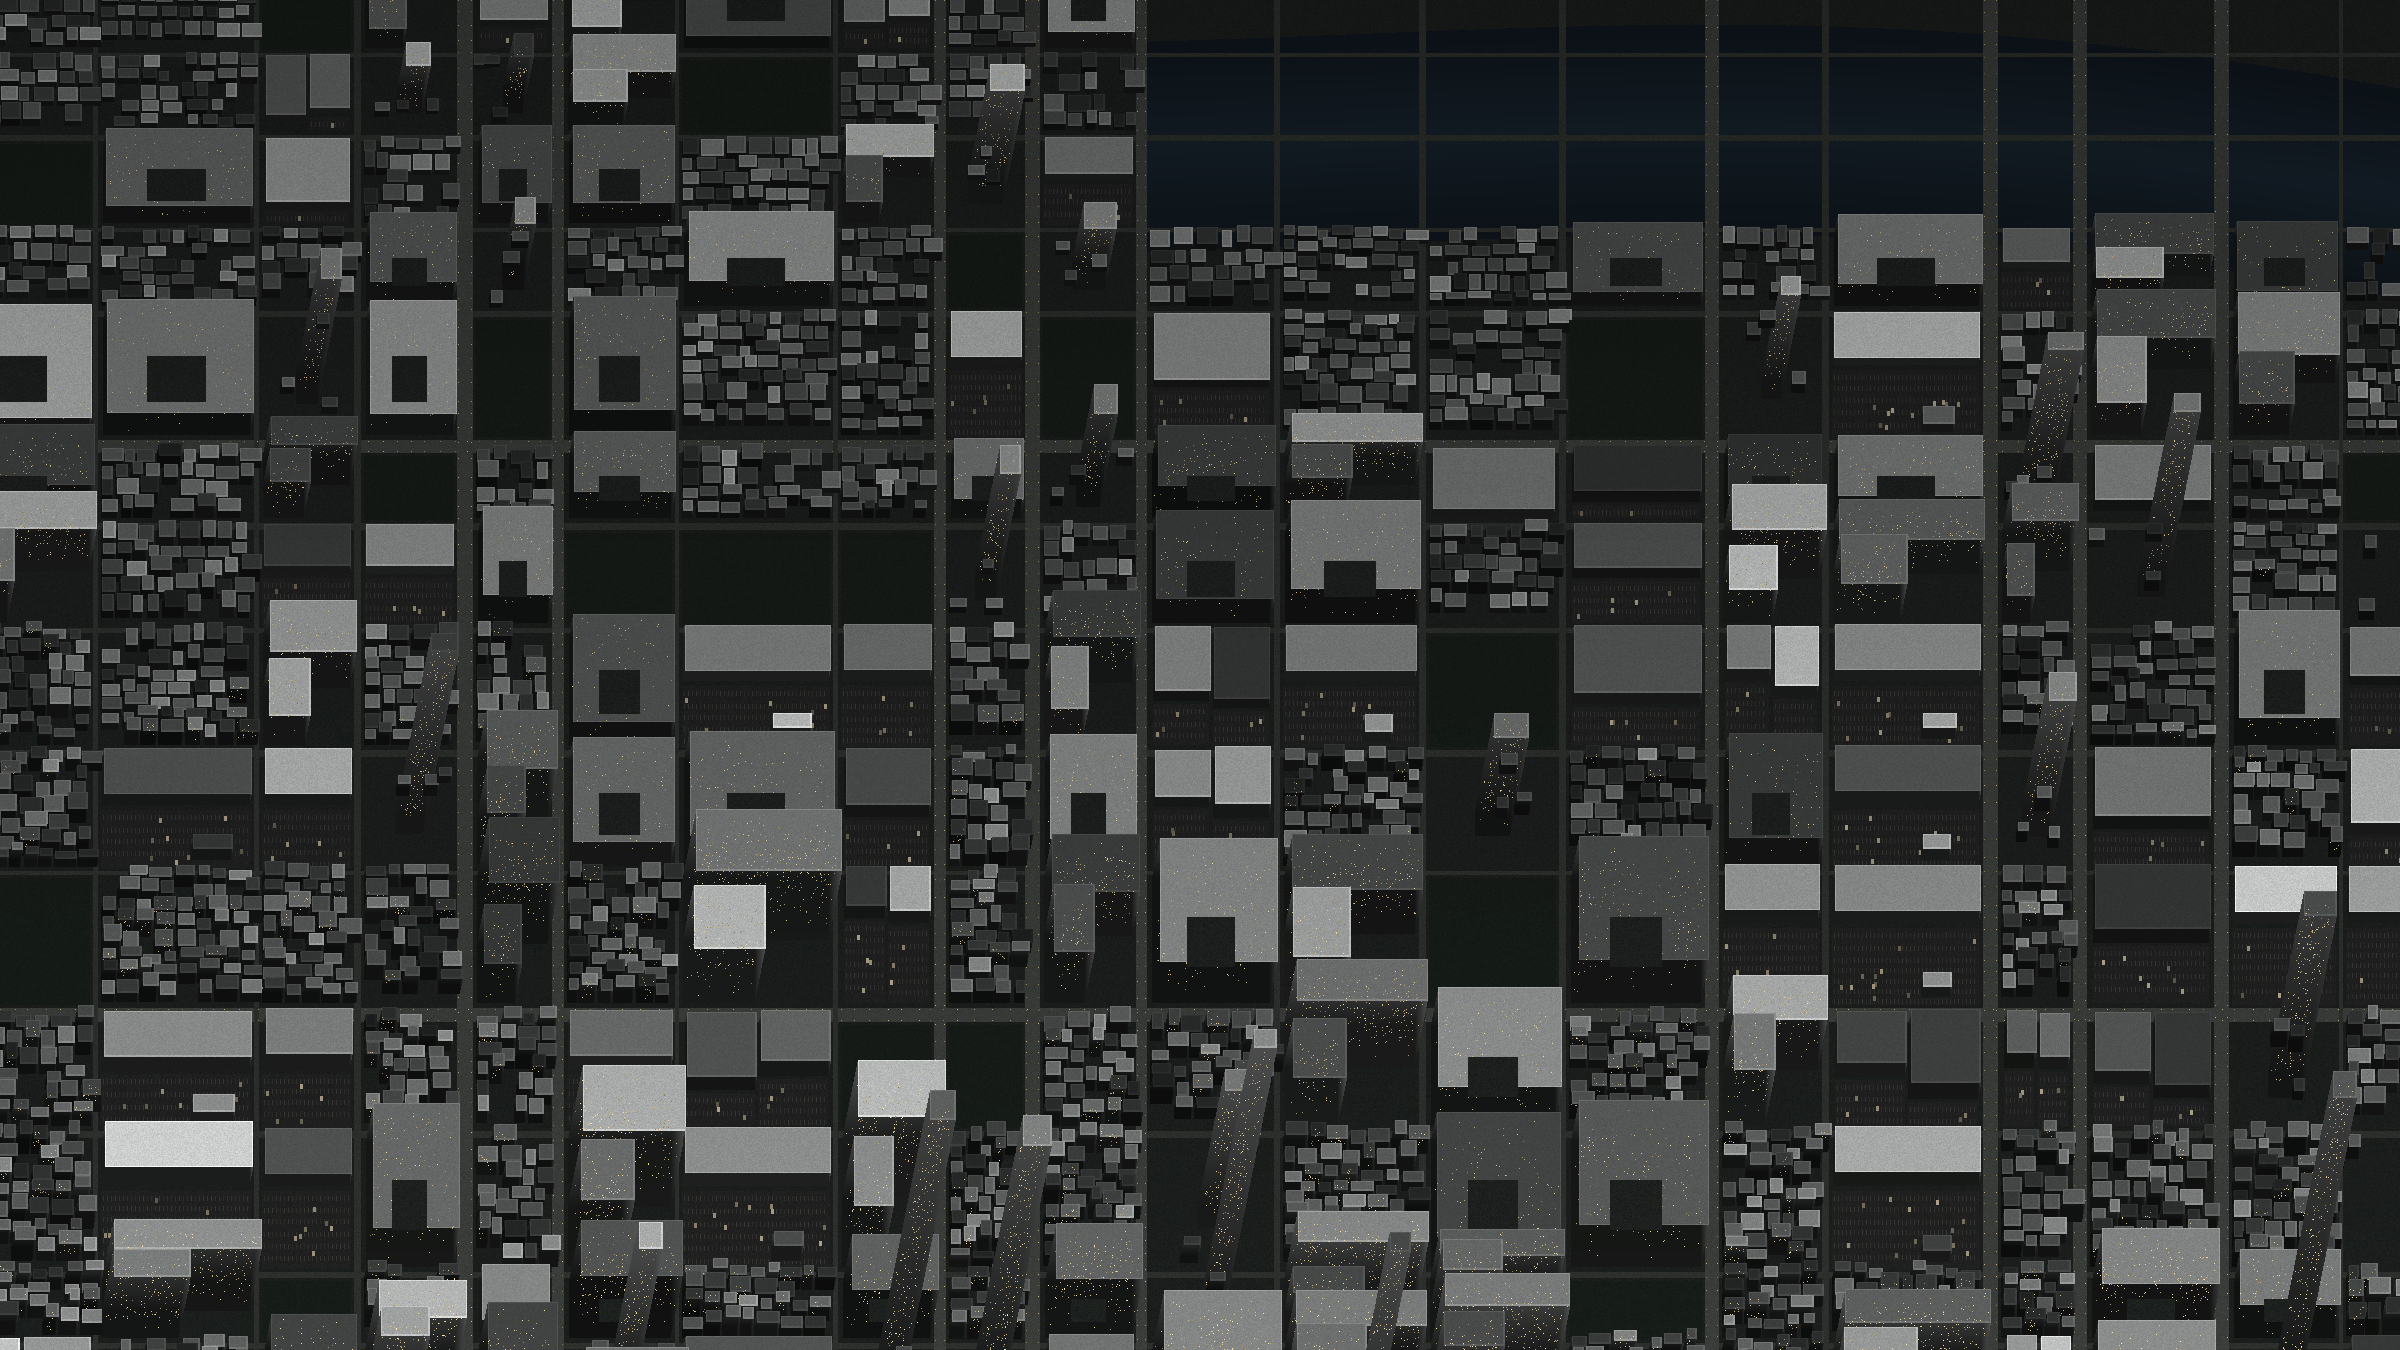
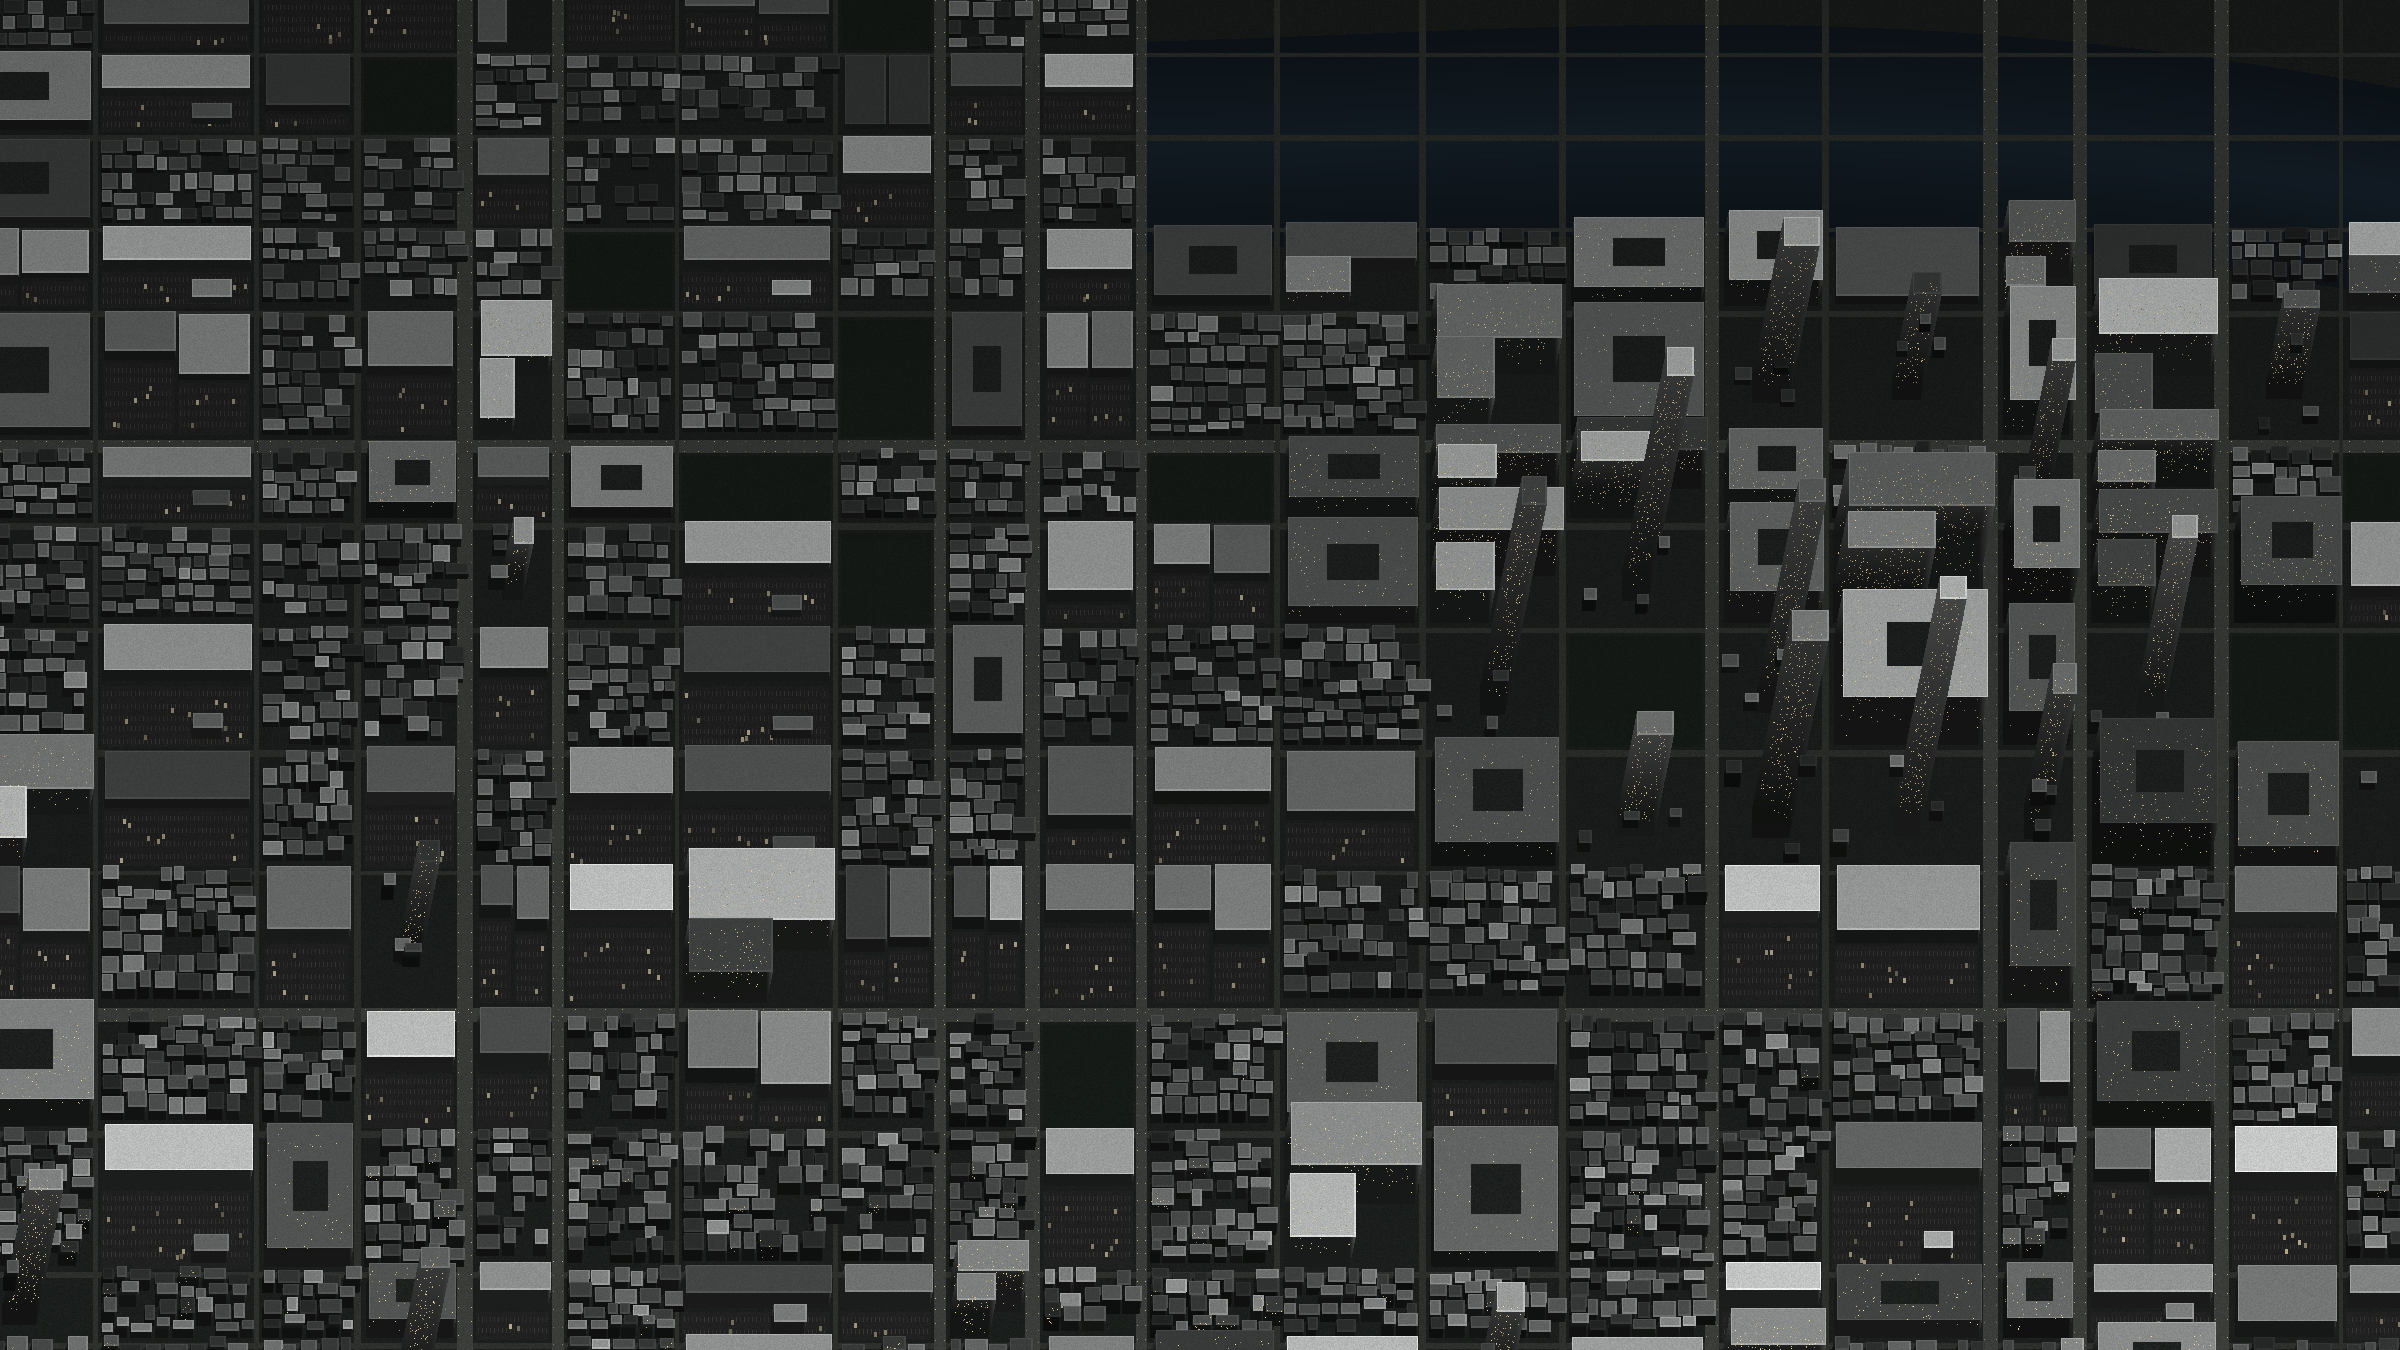
Give the aerial a downtown, and open Meet Vera on the intro everywhere
THE CITY HAS A CORE NOW. Towers scattered evenly across the frame read as
texture; towers clustered with the skyline falling away around them read
as a place. Height and asset class both follow distance from a core: the
middle is towers and offices, the edges are sheds, plazas and low fabric.
Measured, the mean vertical building run is 19.1px downtown against
9.9px at the outskirts, with fewer and larger masses in the core.

THE COURTYARD BUG. Midrise courtyards were punched at the FOOTPRINT while
the roof sits a long way up the frame under the low camera, so the dark
square cut through the middle of the roof and out the bottom of it. That
is why one highlight looked like it was floating off its building: it was
outlining a roof with a hole in it. Courtyards now sit on the roof, and
seven of the eight highlights verify clean on all four edges. The eighth
is the L-shaped office, where the outline covers the main wing and the
second wing continues below it, which is the shape rather than a
misalignment.

MOBILE OPENS ON THE INTRO TOO. It used to jump straight to records and a
green conclusion, dropping a phone visitor into the middle of a
demonstration with no idea what it demonstrates. Still no walk through
three modes on a phone; just the sentence, then the whole story.

Also: the aerial band on phones is 400px rather than 250px and its crop
anchors right instead of centre. Anchoring centre at that height would
[…]

diff --git a/src/components/hero/HeroAerial.tsx b/src/components/hero/HeroAerial.tsx
@@ -1,7 +1,6 @@
 import Image from "next/image";
 import {
   HERO_AERIAL_H,
-  HERO_AERIAL_POSITION,
   HERO_AERIAL_SRC,
   HERO_AERIAL_W,
   HERO_HIGHLIGHTS,
@@ -34,7 +33,7 @@ export function HeroAerial() {
       aria-hidden
       className={[
         // mobile: a shallow band under the copy, full-bleed
-        "relative mt-12 h-[250px] w-full sm:h-[300px] md:h-[340px]",
+        "relative mt-12 h-[400px] w-full sm:h-[460px] md:h-[520px]",
         "[container-type:size]",
         // desktop: the whole section, behind everything
         "lg:absolute lg:inset-0 lg:z-0 lg:mt-0 lg:h-auto",
@@ -52,8 +51,16 @@ export function HeroAerial() {
              the browser pick the width it needs */
           sizes="100vw"
           quality={82}
-          className="object-cover"
-          style={{ objectPosition: HERO_AERIAL_POSITION }}
+          /* ALIGNMENT IS SHARED WITH CoverBox BELOW. Change one and you must
+             change the other, or every outline slides off its building.
+
+             Desktop centres: the layer is wider than the image's aspect, so
+             cover scales by width and nothing is cropped horizontally at all.
+             The taller phone band is the opposite, cropping about half the
+             width away, and centring there would throw away the right side of
+             the frame, which is exactly where the portfolio is. So it anchors
+             right. */
+          className="object-cover object-right lg:object-center"
         />
       </div>
 
@@ -141,7 +148,7 @@ function CoverBox({ children }: { children: React.ReactNode }) {
   return (
     <div className="pointer-events-none absolute inset-0 overflow-hidden">
       <div
-        className="absolute left-1/2 top-1/2 -translate-x-1/2 -translate-y-1/2"
+        className="absolute right-0 top-1/2 -translate-y-1/2 lg:left-1/2 lg:right-auto lg:-translate-x-1/2"
         style={{
           aspectRatio: ratio,
           width: `max(100cqw, calc(100cqh * ${HERO_AERIAL_W} / ${HERO_AERIAL_H}))`,
@@ -227,8 +234,8 @@ function StreetName({ street: s }: { street: StreetLabel }) {
   return (
     <span
       className={[
-        "hero-street absolute whitespace-nowrap font-mono text-[9px] uppercase",
-        "tracking-[0.18em] text-paper-subtle/70 lg:text-[10px]",
+        "hero-street absolute whitespace-nowrap font-mono text-[11px] uppercase",
+        "tracking-[0.16em] text-paper-subtle/80 lg:text-[13px]",
         s.hideBelowLg ? "hidden lg:block" : "",
       ].join(" ")}
       style={{

diff --git a/src/lib/hero-portfolio.ts b/src/lib/hero-portfolio.ts
@@ -24,12 +24,8 @@ export const HERO_AERIAL_SRC = "/hero/portfolio-aerial.png";
 export const HERO_AERIAL_W = 2400;
 export const HERO_AERIAL_H = 1350;
 
-/* Dead centre, and it has to stay dead centre: it is the one object-position
-   the overlay box can reproduce in CSS without measuring anything at runtime.
-   The crop still lands well — the box is wider than the image above 1024px,
-   so nothing is cut horizontally there, and the mobile band keeps the middle
-   88% of the width, which is where the highlighted assets are. */
-export const HERO_AERIAL_POSITION = "50% 50%";
+/* Crop alignment lives in HeroAerial, next to the overlay box that has to
+   match it exactly. Splitting the two across files is how they drift. */
 
 export type HighlightType =
   | "retail"
@@ -63,14 +59,14 @@ export type Highlight = {
    so nothing is marked there: an outline with no visible building under it
    reads as a bug, not as restraint. */
 export const HERO_HIGHLIGHTS: Highlight[] = [
-  { id: "civic", type: "institutional", x: 87.39, y: 21.46, w: 4.96, h: 3.57, hideBelowLg: true },
-  { id: "residences", type: "residential", x: 72.03, y: 32.21, w: 3.92, h: 4.52, pin: 6 },
-  { id: "office", type: "office", x: 76.66, y: 37.02, w: 6.08, h: 3.03, hideBelowLg: true },
-  { id: "tower", type: "mixed-use", x: 85.39, y: 49.80, w: 1.14, h: 2.15, pin: 10 },
-  { id: "plaza", type: "retail", x: 71.90, y: 64.03, w: 3.96, h: 3.41, pin: 5 },
-  { id: "neighbourhood", type: "retail", x: 93.14, y: 64.15, w: 4.25, h: 3.41, hideBelowLg: true },
-  { id: "logistics", type: "industrial", x: 83.63, y: 74.85, w: 1.25, h: 3.12, pin: 5 },
-  { id: "highstreet", type: "retail", x: 76.50, y: 83.41, w: 6.08, h: 3.41 },
+  { id: "civic", type: "institutional", x: 87.48, y: 20.64, w: 4.96, h: 4.11, hideBelowLg: true },
+  { id: "residences", type: "residential", x: 72.08, y: 31.75, w: 3.92, h: 4.52, pin: 6 },
+  { id: "office", type: "office", x: 77.05, y: 33.55, w: 6.08, h: 3.99, hideBelowLg: true },
+  { id: "tower", type: "mixed-use", x: 85.54, y: 49.14, w: 0.96, h: 2.24, pin: 10 },
+  { id: "plaza", type: "retail", x: 71.89, y: 64.14, w: 3.96, h: 3.41, pin: 5 },
+  { id: "neighbourhood", type: "retail", x: 93.14, y: 64.18, w: 4.25, h: 3.41, hideBelowLg: true },
+  { id: "logistics", type: "industrial", x: 83.65, y: 74.68, w: 1.25, h: 4.48, pin: 5 },
+  { id: "highstreet", type: "retail", x: 76.53, y: 83.13, w: 6.08, h: 3.41 },
 ];
 
 /* Street names, so the frame reads as a place rather than as a texture.

diff --git a/src/components/vera/MeetVera.tsx b/src/components/vera/MeetVera.tsx
@@ -81,12 +81,13 @@ export function MeetVera() {
        way to recover. A section that silently shows nothing is far worse
        than one that skips its animation. */
     const reduced = window.matchMedia("(prefers-reduced-motion: reduce)").matches;
-    /* no autoplay below the desktop breakpoint: on a phone each mode is one
-       tap and shows itself complete */
     const desktop = window.matchMedia("(min-width: 1024px)").matches;
     const el = sectionRef.current;
 
-    if (reduced || !desktop || !el) {
+    /* Somebody who has asked for less motion gets the finished thing, and a
+       missing ref fails open to the same place. A section that silently shows
+       nothing is far worse than one that skips its animation. */
+    if (reduced || !el) {
       setRevealed(Infinity);
       return;
     }
@@ -96,6 +97,23 @@ export function MeetVera() {
     const play = () => {
       if (started || takenOver.current || document.hidden) return;
       started = true;
+
+      /* PHONES GET THE SENTENCE, THEN THE WHOLE STORY.
+
+         No walk through three modes on a phone: that is a lot of scrolling
+         real estate spent on something the visitor did not ask to watch. But
+         opening straight on records and a green conclusion drops them into
+         the middle of a demonstration with no idea what it demonstrates, so
+         the explanation still plays first. */
+      if (!desktop) {
+        setRevealed(INTRO);
+        timers.current.push(
+          setTimeout(() => {
+            if (!takenOver.current) setRevealed(Infinity);
+          }, INTRO_MS),
+        );
+        return;
+      }
 
       let t = 0;
       STORY_ORDER.forEach((id, chapter) => {

diff --git a/src/lib/request-access/schema.ts b/src/lib/request-access/schema.ts
@@ -92,8 +92,11 @@ export function validate(fields: RequestAccessFields): FieldErrors {
   )
     errors.portfolioSize = "Please choose one of the listed options.";
 
-  if (fields.message.length < MESSAGE_MIN)
-    errors.message = "Please tell us a little more.";
+  /* Optional. Somebody who wants access should not be made to write an essay
+     to ask for it, and a forced field mostly produces "n/a". If they do write
+     something, it still has to be long enough to be worth reading. */
+  if (fields.message && fields.message.length < MESSAGE_MIN)
+    errors.message = "Please tell us a little more, or leave this blank.";
   else if (fields.message.length > MESSAGE_MAX)
     errors.message = `Please keep this under ${MESSAGE_MAX} characters.`;
 

diff --git a/src/app/request-access/RequestAccessForm.tsx b/src/app/request-access/RequestAccessForm.tsx
@@ -192,7 +192,7 @@ export function RequestAccessForm() {
       />
 
       <div className="mt-6">
-        <Label htmlFor="message">
+        <Label htmlFor="message" optional>
           What would you want Provenance to help with?
         </Label>
         <textarea
